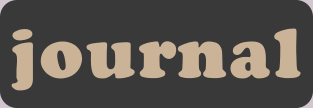
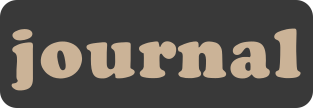
journal button

diff --git a/Main_Menu_Screen.py b/Main_Menu_Screen.py
@@ -23,10 +23,6 @@ button_analyze = pygame.image.load("resource\\button_analyze.png").convert_alpha
 button_analyze_xy = (130,630)
 button_analyze_rect = button_analyze.get_rect(topleft = button_analyze_xy)
 
-button_journal = pygame.image.load("resource\\button_journal.png").convert_alpha() #load an image, convert alpha preserves transparency
-button_journal_xy = (600,630)
-button_journal_rect = button_analyze.get_rect(topleft = button_journal_xy)
-
 button_quit = pygame.image.load("resource\\button_back.png").convert_alpha() #load an image, convert alpha preserves transparency
 button_quit_xy = (1070,630)
 button_quit_rect = button_analyze.get_rect(topleft = button_quit_xy)
@@ -96,6 +92,14 @@ def render_text(message, xy):
 def display_main_menu_screen(random_quote, show_journal_button):
     clock = pygame.time.Clock()
     run = True
+    if(show_journal_button):
+        button_journal = pygame.image.load("resource\\button_journal.png").convert_alpha() #load an image, convert alpha preserves transparency   
+    else:
+        button_journal = pygame.image.load("resource\\button_journal_grey.png").convert_alpha() #load an image, convert alpha preserves transparency
+    
+    button_journal_xy = (600,630)
+    button_journal_rect = button_analyze.get_rect(topleft = button_journal_xy)
+
     while run: #main loop that runs every frame
         clock.tick(FPS) #controls the update speed of the program
         for event in pygame.event.get(): #Checks all pygame events every frame
@@ -107,7 +111,7 @@ def display_main_menu_screen(random_quote, show_journal_button):
             if event.type == pygame.MOUSEBUTTONDOWN: #If the user clicked 
                 if(button_analyze_rect.collidepoint(event.pos)): #and the position of the click collides with the x_y for the button
                     return ("analyze")
-            if event.type == pygame.MOUSEBUTTONDOWN: #If the user clicked 
+            if event.type == pygame.MOUSEBUTTONDOWN and show_journal_button: #If the user clicked 
                 if(button_journal_rect.collidepoint(event.pos)): #and the position of the click collides with the x_y for the button
                     return ("journal")
             if event.type == pygame.MOUSEBUTTONDOWN: #If the user clicked 
@@ -131,6 +135,6 @@ def display_main_menu_screen(random_quote, show_journal_button):
         pygame.display.flip()#This updates the screen to show all changes     
         
     pygame.quit()
-    
+
 if __name__ == "__main__":
-    display_main_menu_screen(random_quote, show_journal_button)
+    display_main_menu_screen("Placeholder random quote for testing purposes", False)
